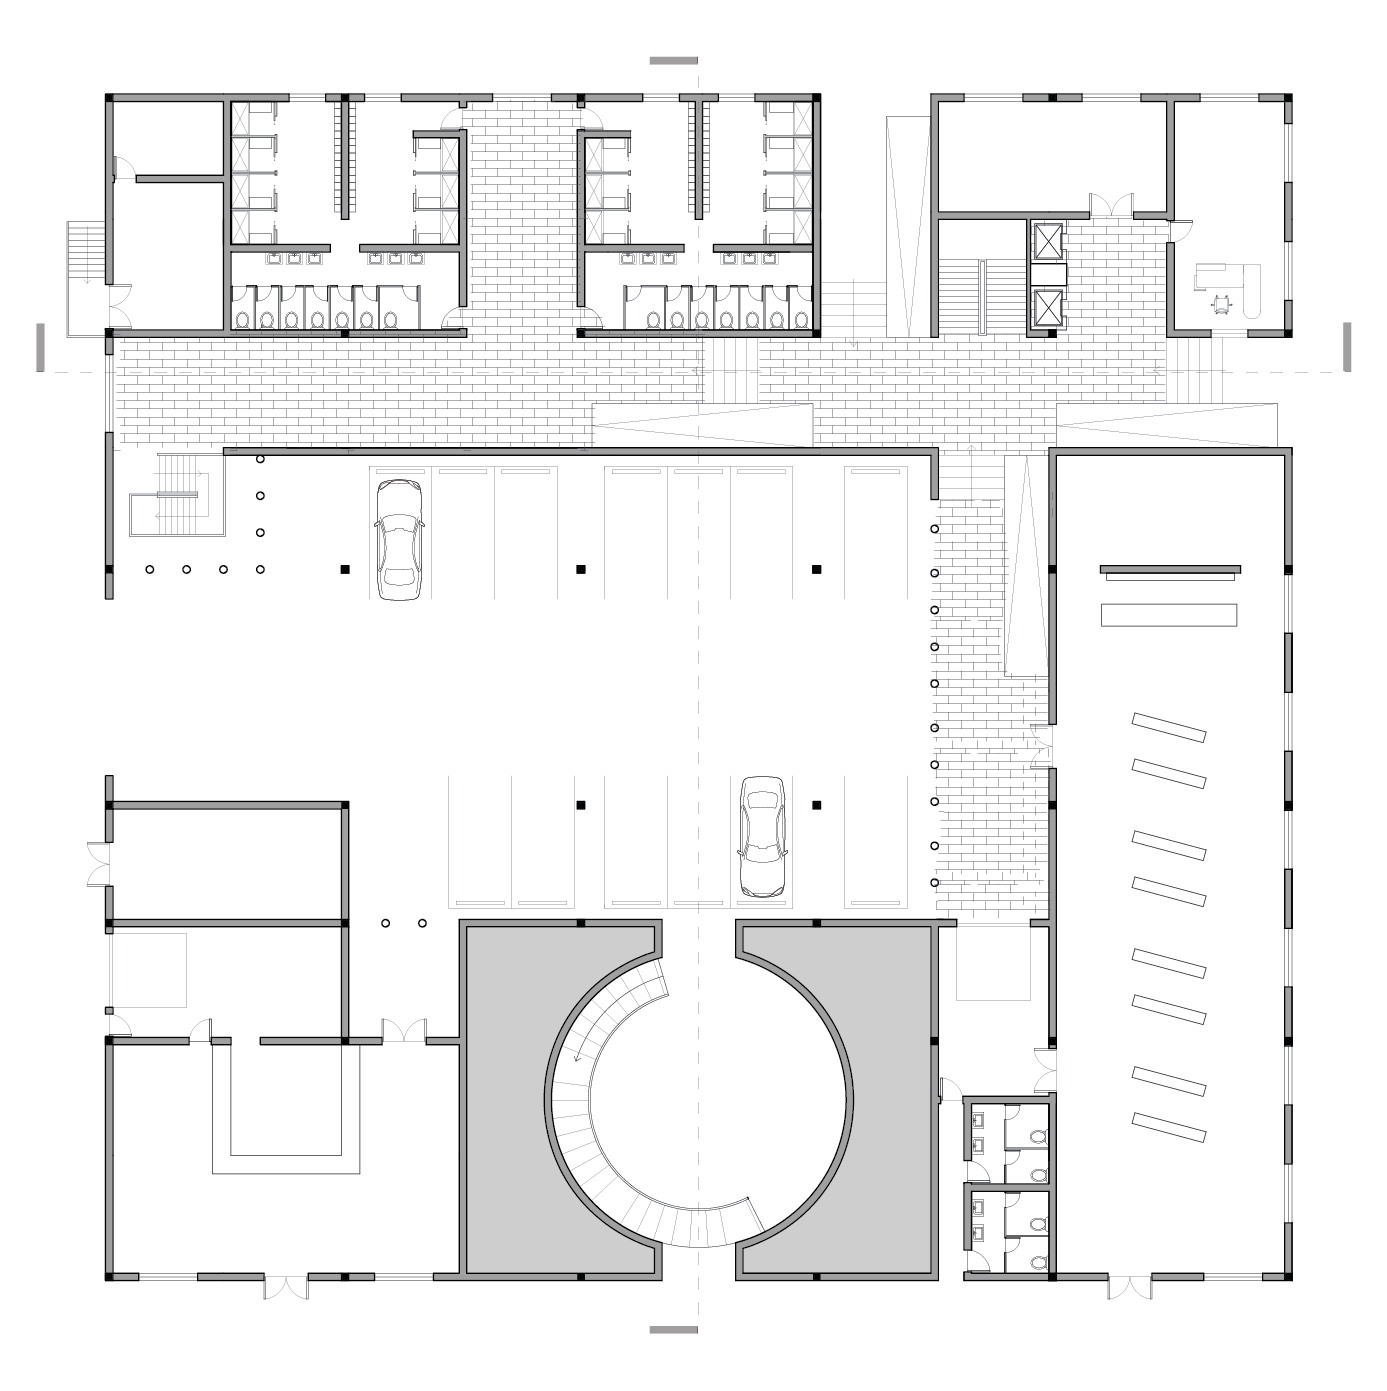
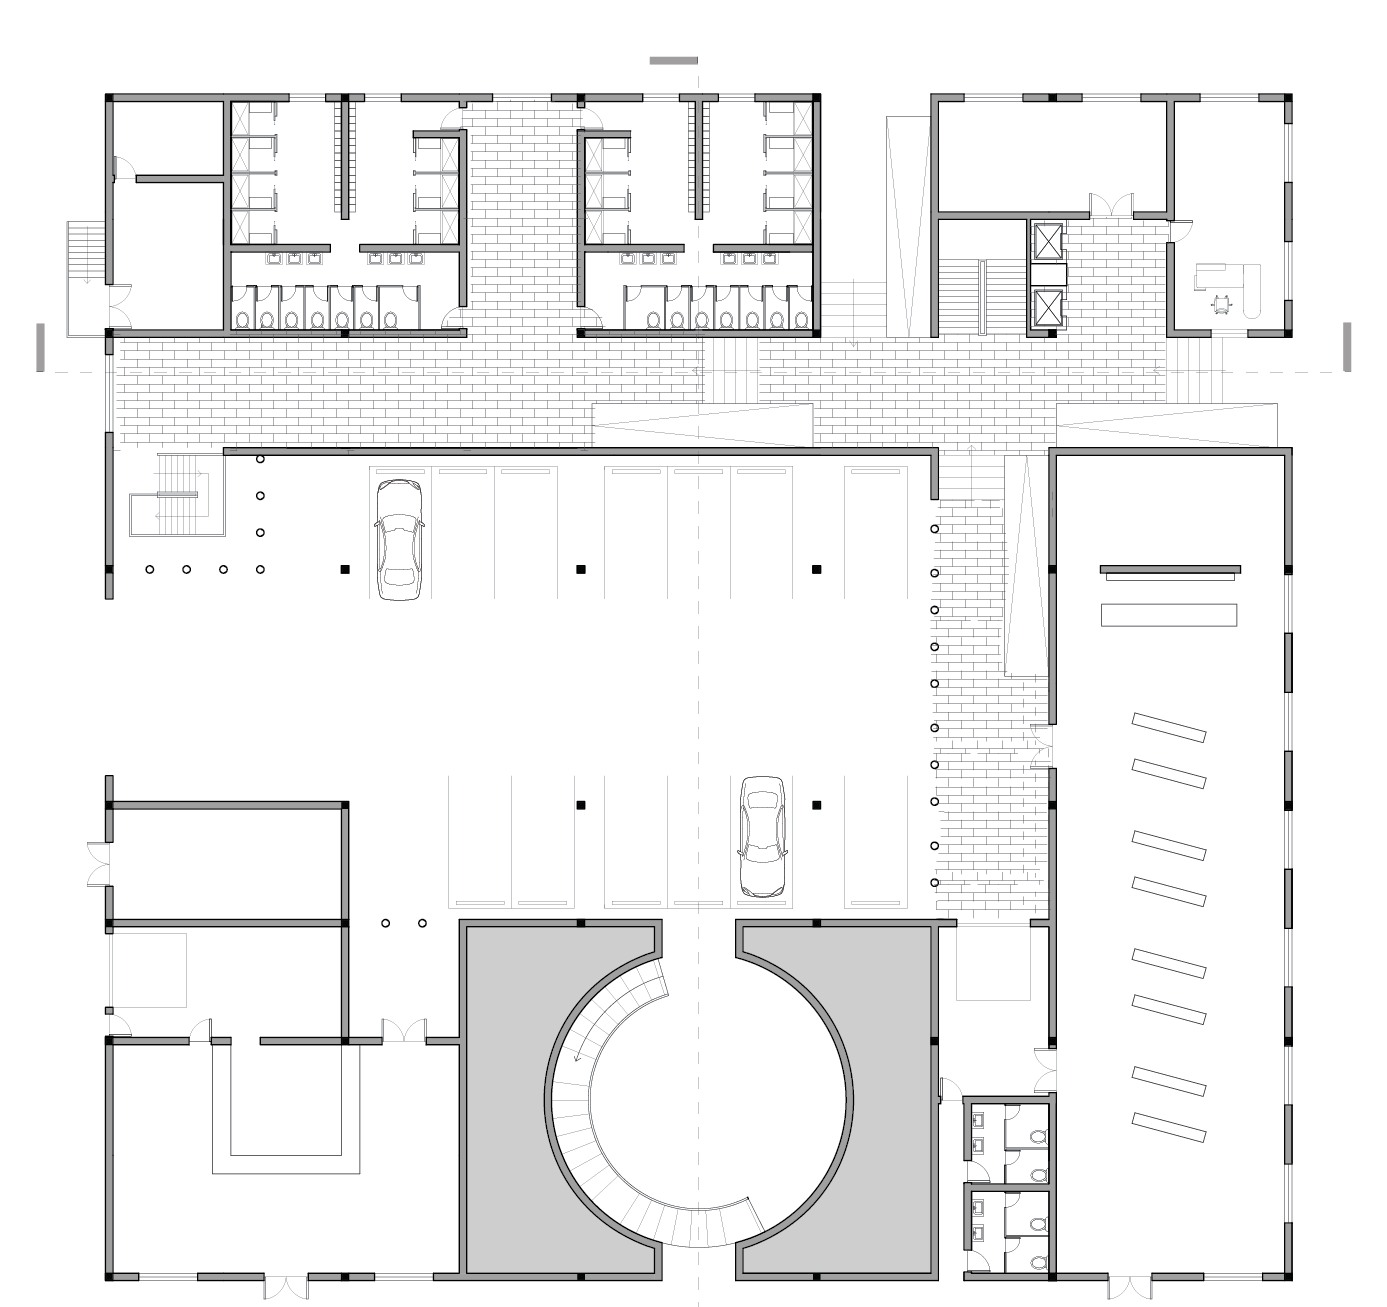
Youth Center plans: tighter bottom crop, labels on the main square, renamed levels

diff --git a/js/projects.js b/js/projects.js
@@ -30,7 +30,7 @@
 */
 
 // Bump whenever an image file is replaced under the same name, so browsers fetch the new one
-const IMAGE_VERSION = 6;
+const IMAGE_VERSION = 7;
 
 const CATEGORIES = [
   { id: "academic", label: "Academic", prefix: "A" },
@@ -129,9 +129,9 @@ const PROJECTS = [
         layout: "row",
         gap: "clamp(20px, 3vw, 48px)", // a little more air between the plans
         images: [
-          { src: "assets/img/projects/youth-center/06.jpg", ratio: 1, caption: "Ground Level", captionInset: "7.5%" },
-          { src: "assets/img/projects/youth-center/07.jpg", ratio: 1, caption: "5ft Level", captionInset: "4.9%" },
-          { src: "assets/img/projects/youth-center/08.jpg", ratio: 1, caption: "Gym Level", captionInset: "5.9%" },
+          { src: "assets/img/projects/youth-center/06.jpg", ratio: 1.061, caption: "Ground Floor Plan", captionInset: "7.7%" },
+          { src: "assets/img/projects/youth-center/07.jpg", ratio: 1.061, caption: "+5' Floor Plan", captionInset: "7.7%" },
+          { src: "assets/img/projects/youth-center/08.jpg", ratio: 1.061, caption: "Gym Floor Plan", captionInset: "5.9%" },
         ],
       },
       {

diff --git a/project.html b/project.html
@@ -25,7 +25,7 @@
   <link rel="icon" href="assets/img/favicon.svg" type="image/svg+xml">
   <link rel="icon" href="assets/img/favicon-32.png" sizes="32x32" type="image/png">
   <link rel="apple-touch-icon" href="assets/img/apple-touch-icon.png">
-  <link rel="stylesheet" href="css/style.css?v=28">
+  <link rel="stylesheet" href="css/style.css?v=29">
 </head>
 <body data-page="project">
 
@@ -48,7 +48,7 @@
     <article class="project" id="project"></article>
   </main>
 
-  <script src="js/projects.js?v=28"></script>
-  <script src="js/main.js?v=28"></script>
+  <script src="js/projects.js?v=29"></script>
+  <script src="js/main.js?v=29"></script>
 </body>
 </html>

diff --git a/index.html b/index.html
@@ -30,7 +30,7 @@
   <link rel="preconnect" href="https://fonts.googleapis.com">
   <link rel="preconnect" href="https://fonts.gstatic.com" crossorigin>
   <link rel="stylesheet" href="https://fonts.googleapis.com/css2?family=Inter:wght@400;700&display=swap">
-  <link rel="stylesheet" href="css/style.css?v=28">
+  <link rel="stylesheet" href="css/style.css?v=29">
 </head>
 <body data-page="index">
 
@@ -157,7 +157,7 @@
     </div>
   </main>
 
-  <script src="js/projects.js?v=28"></script>
-  <script src="js/main.js?v=28"></script>
+  <script src="js/projects.js?v=29"></script>
+  <script src="js/main.js?v=29"></script>
 </body>
 </html>
